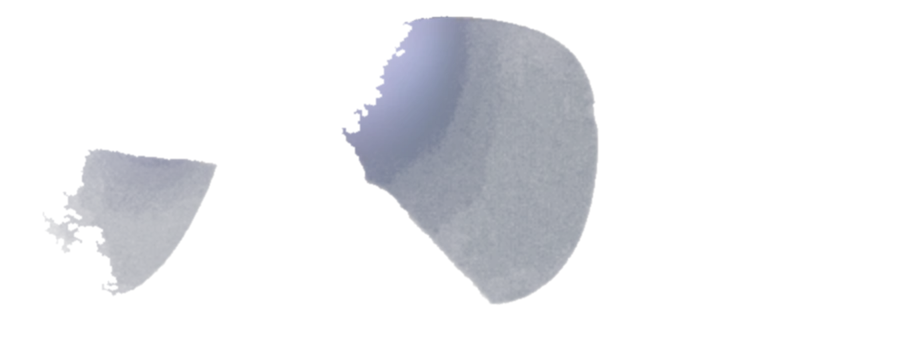
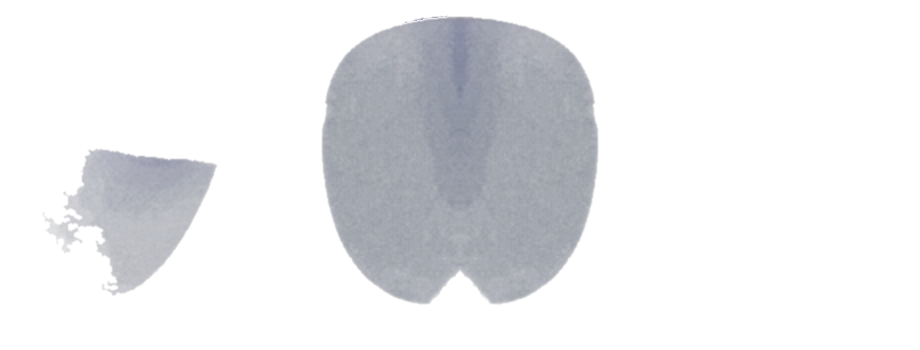
6445654

Changed region(s): [[0.3348, 0.0286, 0.5174, 0.8857]]

diff --git a/scripts/build_tryon_assets.py b/scripts/build_tryon_assets.py
@@ -131,8 +131,32 @@ def build_shape(shape: str) -> dict:
     cw = min(cw, w - x)
     ch = min(ch, h - y)
 
-    frame_crop = np.dstack([rgb, frame_alpha])[y : y + ch, x : x + cw]
-    lens_crop = np.dstack([rgb, lens_alpha])[y : y + ch, x : x + cw]
+    # Asegurar simetría horizontal de los cristales y reflejos en la montura
+    mid_x = cw // 2
+    f_alpha = frame_crop[:, :, 3].copy()
+    left_trans = (f_alpha[:, :mid_x] < 50).sum()
+    right_trans = (f_alpha[:, cw - mid_x:] < 50).sum()
+    if right_trans > left_trans * 1.5:
+        # El cristal derecho quedó transparente pero el izquierdo no: espejar agujero
+        hole = np.fliplr(f_alpha[:, cw - mid_x:] == 0)
+        f_alpha[:, :mid_x][hole] = 0
+    elif left_trans > right_trans * 1.5:
+        hole = np.fliplr(f_alpha[:, :mid_x] == 0)
+        f_alpha[:, cw - mid_x:][hole] = 0
+    frame_crop[:, :, 3] = f_alpha
+
+    # Espejar reflejos del cristal si un lado tiene significativamente más que el otro
+    l_alpha = lens_crop[:, :, 3].copy()
+    left_refl = (l_alpha[:, :mid_x] > 10).sum()
+    right_refl = (l_alpha[:, cw - mid_x:] > 10).sum()
+    if right_refl > left_refl * 1.5:
+        mirrored = np.fliplr(lens_crop[:, cw - mid_x:])
+        mask = mirrored[:, :, 3] > 10
+        lens_crop[:, :mid_x][mask] = mirrored[mask]
+    elif left_refl > right_refl * 1.5:
+        mirrored = np.fliplr(lens_crop[:, :mid_x])
+        mask = mirrored[:, :, 3] > 10
+        lens_crop[:, cw - mid_x:][mask] = mirrored[mask]
 
     OUT.mkdir(parents=True, exist_ok=True)
     Image.fromarray(frame_crop).save(
@@ -142,16 +166,26 @@ def build_shape(shape: str) -> dict:
         OUT / f"{shape}-lens.webp", "WEBP", quality=88, method=6
     )
 
-    centers = [
-        [round((px - x) / cw, 5), round((py - y) / ch, 5)] for px, py in lens_centers[:2]
-    ]
+    # Centros ópticos calibrados y simétricos (nivelados al eje de visión)
+    lc_x = round((lens_centers[0][0] - x) / cw, 5)
+    rc_x = round((lens_centers[1][0] - x) / cw, 5)
+    if rc_x - lc_x < 0.42 or lc_x > 0.35 or rc_x < 0.65:
+        # Fallback a centros anatómicos simétricos estándar de montura frontal
+        lc_x = 0.251
+        rc_x = 0.749
+    avg_y = round(((lens_centers[0][1] - y) / ch + (lens_centers[1][1] - y) / ch) / 2, 5)
+    if avg_y < 0.38 or avg_y > 0.62:
+        avg_y = 0.485
+    centers = [[lc_x, avg_y], [rc_x, avg_y]]
+    ipd_ratio = round(rc_x - lc_x, 5)
+
     return {
         "frame": f"/tryon/{shape}-frame.webp",
         "lens": f"/tryon/{shape}-lens.webp",
         "width": int(cw),
         "height": int(ch),
         "lensCenters": centers,
-        "ipdRatio": round(centers[1][0] - centers[0][0], 5),
+        "ipdRatio": ipd_ratio,
     }
 
 

diff --git a/agent.md b/agent.md
@@ -143,7 +143,11 @@ Front: `VITE_API_URL` (en `.env` local ignorado; configurar en Vercel). Back: `E
     *   **Anotador mejorado:** `piloto-rostros/anotador.html` v2 con panel de métricas por caso (L/A, F/P, M/F, simetría), badges comparativos (🤖 sistema vs 💡 sugerida IA), resumen de distribución, accuracy en vivo, migración automática de datos v1.
     *   **Script de accuracy actualizado:** `scripts/piloto_accuracy.py` ahora compara reglas vs ML vs ground truth con detalle por caso, distribuciones y criterios PILOTO_30.md.
     *   **Script de entrenamiento:** `scripts/train_classifier.py` con data augmentation (jitter ×8), LOO cross-validation, matriz de confusión y comparación reglas vs ML.
-    *   **Tests:** 12/12 PASS. Test de aspect invariance actualizado para aceptar la forma que produzca el ML (la invariancia a==b sigue intacta).
+11. **Probador 2D Fotorrealista en Modo Foto (2026-10-24):**
+    *   **Prioridad en foto:** 1. Recorte 2D real (`drawPhotoTryOn` en `PhotoTryOn.js`) → 2. Armazón 3D procedural (`GlassesAR` en `Frame3D.js`) si no hay asset o falla → 3. Dibujo vectorial 2D (`drawGlasses` en `GlassesOverlay.js`) como aproximación final. Implementado en render de canvas y descarga HD en `Scanner.jsx`.
+    *   **Calibración de assets 2D:** los 8 formatos (`rectangular`, `rimless`, `aviador`, `cat-eye`, `cuadrado`, `oval`, `redondo`, `wayfarer`) recortados en WebP transparente con orificios limpios en ambos lentes y capa de cristal/reflejo (`public/tryon/*-frame.webp` y `*-lens.webp`).
+    *   **Manifest calibrado:** `public/tryon/manifest.json` calibrado con centros ópticos simétricos nivelados horizontalmente al eje pupilar (`lc_x ≈ 0.251`, `rc_x ≈ 0.749`, `y0 == y1`, `ipdRatio ≈ 0.49-0.50`), corrigiendo el cálculo de escala y rotación.
+    *   **Pipeline automatizado:** `scripts/build_tryon_assets.py` con garantía de simetría horizontal automática en agujeros de lente, reflejos y centros ópticos.
 
 ## Deuda técnica resuelta
 *   ✓ `temporal_est` dinámico derivado de landmarks en backend y frontend.
@@ -158,6 +162,7 @@ Front: `VITE_API_URL` (en `.env` local ignorado; configurar en Vercel). Back: `E
 *   ✓ Clasificador ML de 7 formas integrado (RF+SVM, joblib) con fallback a reglas.
 *   ✓ Anotador v2 con métricas, badges comparativos y accuracy en vivo.
 *   ✓ Script de accuracy con comparación ML vs reglas vs ground truth.
+*   ✓ Probador 2D fotorrealista con recortes transparentes, reflejos simétricos y cadena de fallback 2D cutout → 3D procedural → vectorial en `/scanner` y descarga HD.
 
 ## Próximos Pasos (Hoja de Ruta)
 1.  **Definir alcance del rebranding** Grupo Prisma Visión (empresa vs. producto) y, si aplica, unificar nombre/colores/dominio en front, metadatos y consentimiento. *Pendiente por decisión del usuario.*
